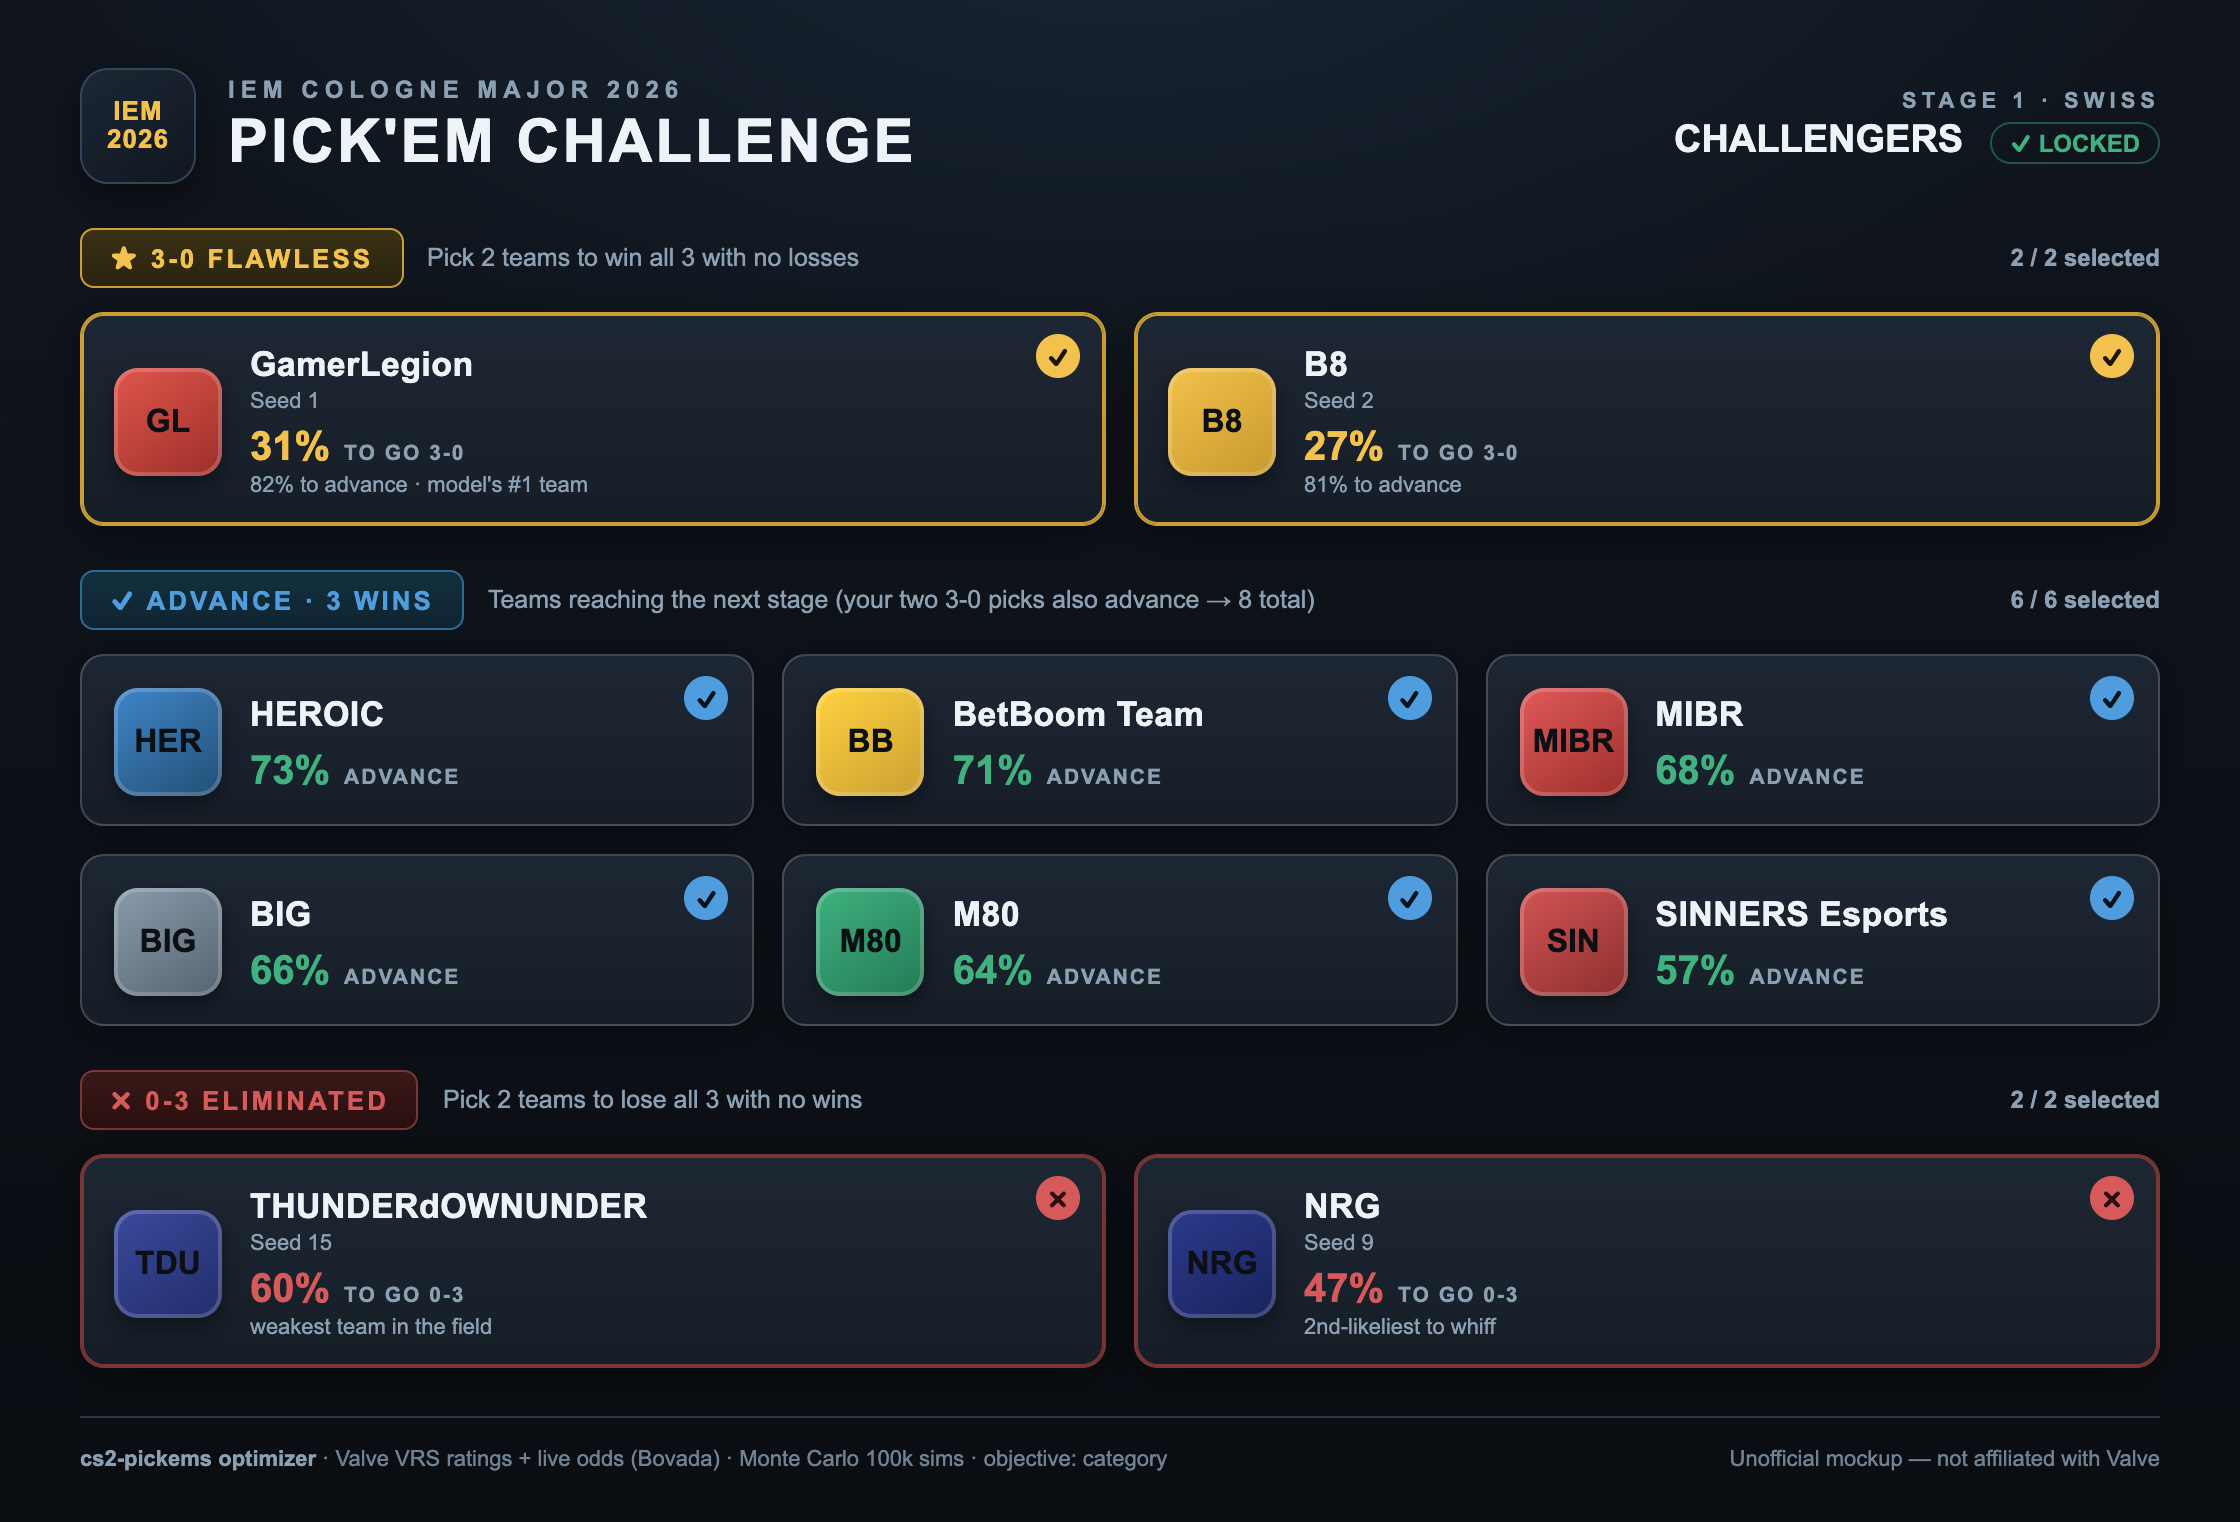
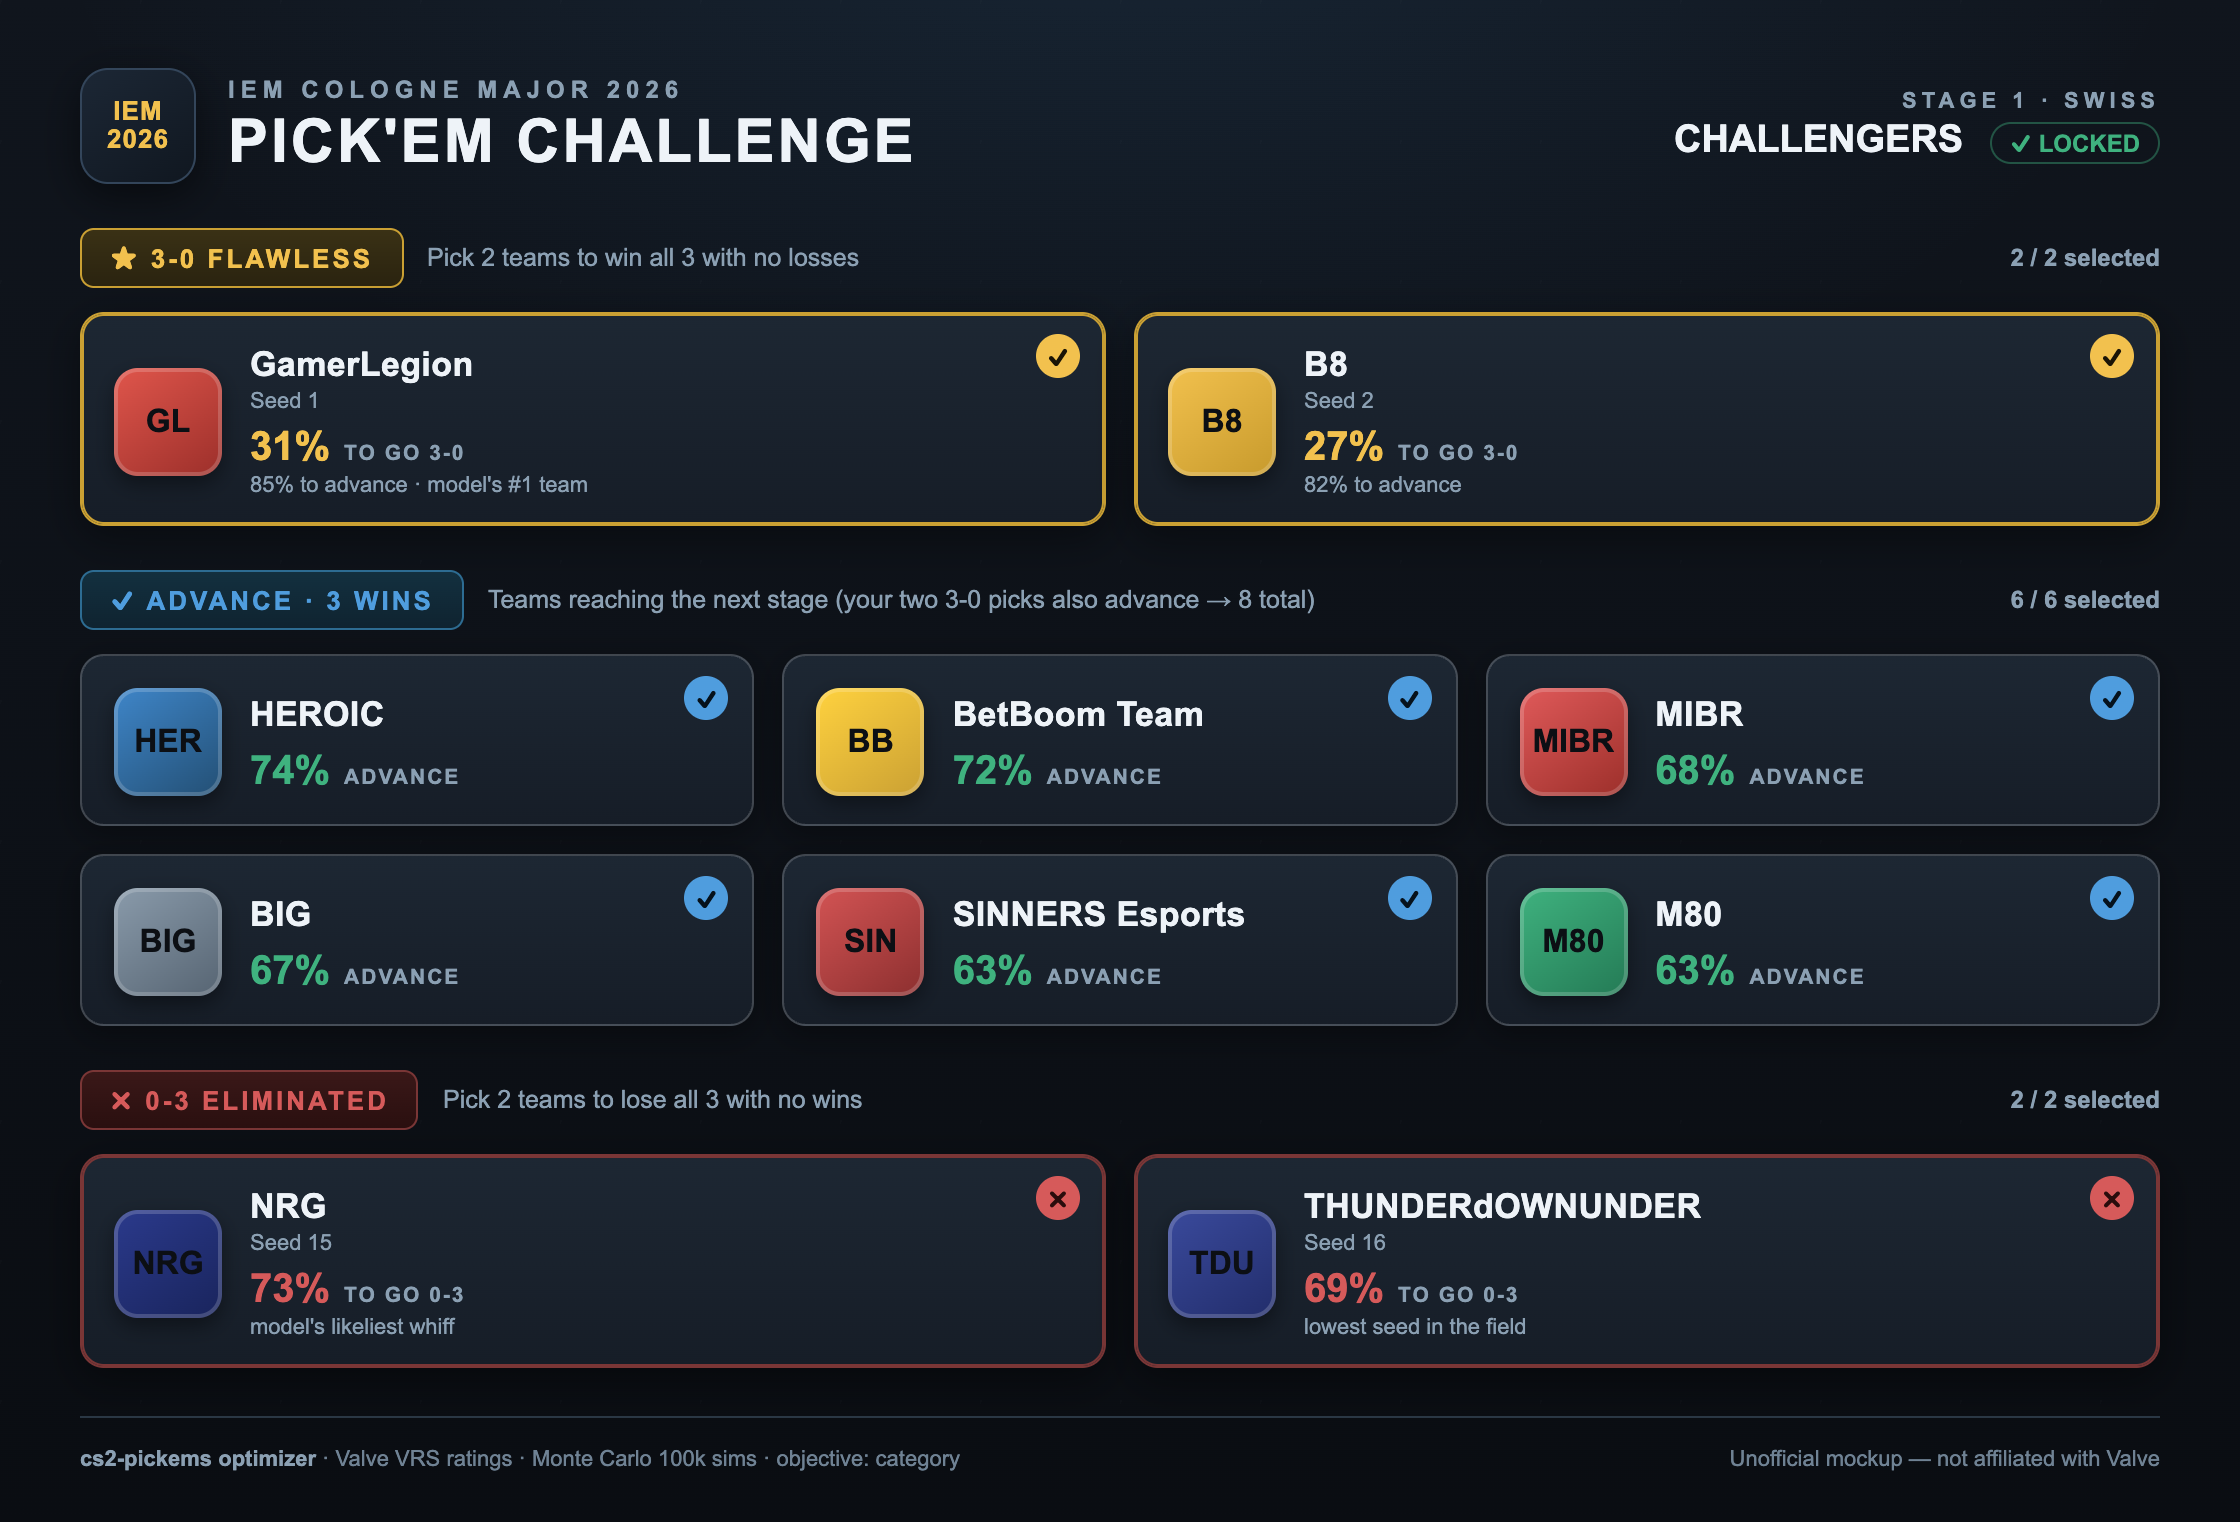
docs(mockup): add Stage 2 & 3 Pick'Em mockup screens + refresh Stage 1
Same in-client style as the existing Stage 1 / champion mockups, driven by
the new multi-stage simulation (Valve VRS, 100k sims/stage):

- docs/pickem_mockup.html: add #stage2 (Legends) and #stage3 (Champions, all
  Bo3) frames with a blue "PROJECTED" badge and a cascade-assumption note;
  refresh #stage1 numbers/seeds after the VRS re-seed (Valve-only footer).
- screenshots: new stage2/stage3 PNGs, regenerated stage1/champion (2240px @user).
- README: show all three Swiss stages, note stages 2/3 are cascaded projections.

diff --git a/docs/pickem_mockup.html b/docs/pickem_mockup.html
@@ -38,6 +38,8 @@
   .stage .v{ font-size:19px; font-weight:800; color:var(--text); margin-top:3px; }
   .lock{ display:inline-block; margin-left:8px; font-size:12px; color:var(--green);
          border:1px solid rgba(63,178,127,.4); border-radius:20px; padding:2px 9px; vertical-align:middle; }
+  .proj{ display:inline-block; margin-left:8px; font-size:12px; color:var(--blue);
+         border:1px solid rgba(79,157,222,.4); border-radius:20px; padding:2px 9px; vertical-align:middle; }
 
   .group{ margin-top:22px; position:relative; z-index:1; }
   .ghead{ display:flex; align-items:center; gap:12px; margin-bottom:12px; }
@@ -85,6 +87,11 @@
   .sub{ font-size:11px; color:var(--muted); margin-top:3px; }
 
   .note{ margin-top:10px; font-size:11.5px; color:var(--muted); }
+  .cascade{
+    margin-top:16px; font-size:12px; color:var(--muted); position:relative; z-index:1;
+    background:rgba(79,157,222,.06); border:1px dashed #2d6c92; border-radius:10px; padding:11px 15px;
+  }
+  .cascade b{ color:var(--blue); }
   .foot{
     margin-top:24px; padding-top:14px; border-top:1px solid var(--line);
     display:flex; justify-content:space-between; align-items:center; font-size:11px; color:#6f8294;
@@ -145,7 +152,7 @@
         <div class="meta">
           <div class="name">GamerLegion</div><div class="seed">Seed 1</div>
           <div class="stat"><span class="pct">31%</span><span class="plabel">to go 3-0</span></div>
-          <div class="sub">82% to advance · model's #1 team</div>
+          <div class="sub">85% to advance · model's #1 team</div>
         </div>
       </div>
       <div class="card g30 sel">
@@ -154,7 +161,7 @@
         <div class="meta">
           <div class="name">B8</div><div class="seed">Seed 2</div>
           <div class="stat"><span class="pct">27%</span><span class="plabel">to go 3-0</span></div>
-          <div class="sub">81% to advance</div>
+          <div class="sub">82% to advance</div>
         </div>
       </div>
     </div>
@@ -171,11 +178,11 @@
       <div class="card adv sel"><div class="tick">✓</div>
         <div class="logo" style="background:linear-gradient(145deg,#3f86c9,#234f74)">HER</div>
         <div class="meta"><div class="name">HEROIC</div>
-          <div class="stat"><span class="pct">73%</span><span class="plabel">advance</span></div></div></div>
+          <div class="stat"><span class="pct">74%</span><span class="plabel">advance</span></div></div></div>
       <div class="card adv sel"><div class="tick">✓</div>
         <div class="logo" style="background:linear-gradient(145deg,#ffd23f,#caa033)">BB</div>
         <div class="meta"><div class="name">BetBoom Team</div>
-          <div class="stat"><span class="pct">71%</span><span class="plabel">advance</span></div></div></div>
+          <div class="stat"><span class="pct">72%</span><span class="plabel">advance</span></div></div></div>
       <div class="card adv sel"><div class="tick">✓</div>
         <div class="logo" style="background:linear-gradient(145deg,#e05a5a,#9c2f2a)">MIBR</div>
         <div class="meta"><div class="name">MIBR</div>
@@ -183,15 +190,15 @@
       <div class="card adv sel"><div class="tick">✓</div>
         <div class="logo" style="background:linear-gradient(145deg,#8a9bab,#566472)">BIG</div>
         <div class="meta"><div class="name">BIG</div>
-          <div class="stat"><span class="pct">66%</span><span class="plabel">advance</span></div></div></div>
-      <div class="card adv sel"><div class="tick">✓</div>
-        <div class="logo" style="background:linear-gradient(145deg,#3fb27f,#247a55)">M80</div>
-        <div class="meta"><div class="name">M80</div>
-          <div class="stat"><span class="pct">64%</span><span class="plabel">advance</span></div></div></div>
+          <div class="stat"><span class="pct">67%</span><span class="plabel">advance</span></div></div></div>
       <div class="card adv sel"><div class="tick">✓</div>
         <div class="logo" style="background:linear-gradient(145deg,#d35454,#8c2f2f)">SIN</div>
         <div class="meta"><div class="name">SINNERS Esports</div>
-          <div class="stat"><span class="pct">57%</span><span class="plabel">advance</span></div></div></div>
+          <div class="stat"><span class="pct">63%</span><span class="plabel">advance</span></div></div></div>
+      <div class="card adv sel"><div class="tick">✓</div>
+        <div class="logo" style="background:linear-gradient(145deg,#3fb27f,#247a55)">M80</div>
+        <div class="meta"><div class="name">M80</div>
+          <div class="stat"><span class="pct">63%</span><span class="plabel">advance</span></div></div></div>
     </div>
   </div>
 
@@ -204,20 +211,245 @@
     </div>
     <div class="row two">
       <div class="card g03 sel"><div class="tick">✗</div>
-        <div class="logo" style="background:linear-gradient(145deg,#3a4a9c,#222d6b)">TDU</div>
-        <div class="meta"><div class="name">THUNDERdOWNUNDER</div><div class="seed">Seed 15</div>
-          <div class="stat"><span class="pct">60%</span><span class="plabel">to go 0-3</span></div>
-          <div class="sub">weakest team in the field</div></div></div>
-      <div class="card g03 sel"><div class="tick">✗</div>
         <div class="logo" style="background:linear-gradient(145deg,#2b3a8c,#19245c)">NRG</div>
-        <div class="meta"><div class="name">NRG</div><div class="seed">Seed 9</div>
-          <div class="stat"><span class="pct">47%</span><span class="plabel">to go 0-3</span></div>
-          <div class="sub">2nd-likeliest to whiff</div></div></div>
+        <div class="meta"><div class="name">NRG</div><div class="seed">Seed 15</div>
+          <div class="stat"><span class="pct">73%</span><span class="plabel">to go 0-3</span></div>
+          <div class="sub">model's likeliest whiff</div></div></div>
+      <div class="card g03 sel"><div class="tick">✗</div>
+        <div class="logo" style="background:linear-gradient(145deg,#3a4a9c,#222d6b)">TDU</div>
+        <div class="meta"><div class="name">THUNDERdOWNUNDER</div><div class="seed">Seed 16</div>
+          <div class="stat"><span class="pct">69%</span><span class="plabel">to go 0-3</span></div>
+          <div class="sub">lowest seed in the field</div></div></div>
     </div>
   </div>
 
   <div class="foot">
-    <span><b>cs2-pickems optimizer</b> · Valve VRS ratings + live odds (Bovada) · Monte Carlo 100k sims · objective: category</span>
+    <span><b>cs2-pickems optimizer</b> · Valve VRS ratings · Monte Carlo 100k sims · objective: category</span>
+    <span>Unofficial mockup — not affiliated with Valve</span>
+  </div>
+</div>
+
+<!-- ===================== STAGE 2 (LEGENDS) ===================== -->
+<div class="frame" id="stage2">
+  <div class="top">
+    <div class="brand">
+      <div class="emblem">IEM<br>2026</div>
+      <div>
+        <div class="evt">IEM COLOGNE MAJOR 2026</div>
+        <div class="title">PICK'EM CHALLENGE</div>
+      </div>
+    </div>
+    <div class="stage">
+      <div class="k">STAGE 2 · SWISS</div>
+      <div class="v">LEGENDS <span class="proj">⟳ PROJECTED</span></div>
+    </div>
+  </div>
+
+  <!-- 3-0 -->
+  <div class="group">
+    <div class="ghead">
+      <span class="badge b-30">★ 3-0 FLAWLESS</span>
+      <span class="desc">Pick 2 teams to win all 3 with no losses</span>
+      <span class="count">2 / 2 selected</span>
+    </div>
+    <div class="row two">
+      <div class="card g30 sel">
+        <div class="tick">✓</div>
+        <div class="logo" style="background:linear-gradient(145deg,#e07b39,#a8531f)">FUT</div>
+        <div class="meta">
+          <div class="name">FUT Esports</div><div class="seed">Seed 1</div>
+          <div class="stat"><span class="pct">30%</span><span class="plabel">to go 3-0</span></div>
+          <div class="sub">83% to advance · top Legends seed</div>
+        </div>
+      </div>
+      <div class="card g30 sel">
+        <div class="tick">✓</div>
+        <div class="logo" style="background:linear-gradient(145deg,#e8453c,#9c2a23)">AST</div>
+        <div class="meta">
+          <div class="name">Astralis</div><div class="seed">Seed 3</div>
+          <div class="stat"><span class="pct">30%</span><span class="plabel">to go 3-0</span></div>
+          <div class="sub">83% to advance</div>
+        </div>
+      </div>
+    </div>
+  </div>
+
+  <!-- ADVANCE -->
+  <div class="group">
+    <div class="ghead">
+      <span class="badge b-adv">✓ ADVANCE · 3 WINS</span>
+      <span class="desc">Teams reaching the next stage (your two 3-0 picks also advance → 8 total)</span>
+      <span class="count">6 / 6 selected</span>
+    </div>
+    <div class="row six">
+      <div class="card adv sel"><div class="tick">✓</div>
+        <div class="logo" style="background:linear-gradient(145deg,#f2c14e,#c79a2c)">SPR</div>
+        <div class="meta"><div class="name">Team Spirit</div>
+          <div class="stat"><span class="pct">83%</span><span class="plabel">advance</span></div></div></div>
+      <div class="card adv sel"><div class="tick">✓</div>
+        <div class="logo" style="background:linear-gradient(145deg,#c9ccd1,#8f949c)">G2</div>
+        <div class="meta"><div class="name">G2 Esports</div>
+          <div class="stat"><span class="pct">70%</span><span class="plabel">advance</span></div></div></div>
+      <div class="card adv sel"><div class="tick">✓</div>
+        <div class="logo" style="background:linear-gradient(145deg,#2ea36b,#1c6e47)">LGC</div>
+        <div class="meta"><div class="name">Legacy</div>
+          <div class="stat"><span class="pct">57%</span><span class="plabel">advance</span></div></div></div>
+      <div class="card adv sel"><div class="tick">✓</div>
+        <div class="logo" style="background:linear-gradient(145deg,#e0564c,#9c2f2a)">GL</div>
+        <div class="meta"><div class="name">GamerLegion</div>
+          <div class="stat"><span class="pct">53%</span><span class="plabel">advance</span></div></div></div>
+      <div class="card adv sel"><div class="tick">✓</div>
+        <div class="logo" style="background:linear-gradient(145deg,#6fa8dc,#3f6f99)">MON</div>
+        <div class="meta"><div class="name">Monte</div>
+          <div class="stat"><span class="pct">53%</span><span class="plabel">advance</span></div></div></div>
+      <div class="card adv sel"><div class="tick">✓</div>
+        <div class="logo" style="background:linear-gradient(145deg,#d2517a,#963655)">PN</div>
+        <div class="meta"><div class="name">paiN Gaming</div>
+          <div class="stat"><span class="pct">52%</span><span class="plabel">advance</span></div></div></div>
+    </div>
+  </div>
+
+  <!-- 0-3 -->
+  <div class="group">
+    <div class="ghead">
+      <span class="badge b-03">✗ 0-3 ELIMINATED</span>
+      <span class="desc">Pick 2 teams to lose all 3 with no wins</span>
+      <span class="count">2 / 2 selected</span>
+    </div>
+    <div class="row two">
+      <div class="card g03 sel"><div class="tick">✗</div>
+        <div class="logo" style="background:linear-gradient(145deg,#b07cc6,#7a4a90)">9Z</div>
+        <div class="meta"><div class="name">9z Team</div><div class="seed">Seed 8</div>
+          <div class="stat"><span class="pct">71%</span><span class="plabel">to go 0-3</span></div>
+          <div class="sub">weakest invite by VRS</div></div></div>
+      <div class="card g03 sel"><div class="tick">✗</div>
+        <div class="logo" style="background:linear-gradient(145deg,#d35454,#8c2f2f)">SIN</div>
+        <div class="meta"><div class="name">SINNERS Esports</div><div class="seed">Seed 15</div>
+          <div class="stat"><span class="pct">19%</span><span class="plabel">to go 0-3</span></div>
+          <div class="sub">lowest Stage-1 carry-over</div></div></div>
+    </div>
+  </div>
+
+  <div class="cascade">
+    <b>Projected field.</b> Stage 2 = the 8 Legends-stage invites + Stage 1's expected top 8
+    (GamerLegion, B8, HEROIC, BetBoom, MIBR, BIG, SINNERS, M80). Picks re-sharpen the moment
+    real Stage 1 results are entered.
+  </div>
+
+  <div class="foot">
+    <span><b>cs2-pickems optimizer</b> · Valve VRS ratings · Monte Carlo 100k sims · objective: category</span>
+    <span>Unofficial mockup — not affiliated with Valve</span>
+  </div>
+</div>
+
+<!-- ===================== STAGE 3 (CHAMPIONS) ===================== -->
+<div class="frame" id="stage3">
+  <div class="top">
+    <div class="brand">
+      <div class="emblem">IEM<br>2026</div>
+      <div>
+        <div class="evt">IEM COLOGNE MAJOR 2026</div>
+        <div class="title">PICK'EM CHALLENGE</div>
+      </div>
+    </div>
+    <div class="stage">
+      <div class="k">STAGE 3 · SWISS (ALL BO3)</div>
+      <div class="v">CHAMPIONS <span class="proj">⟳ PROJECTED</span></div>
+    </div>
+  </div>
+
+  <!-- 3-0 -->
+  <div class="group">
+    <div class="ghead">
+      <span class="badge b-30">★ 3-0 FLAWLESS</span>
+      <span class="desc">Pick 2 teams to win all 3 with no losses</span>
+      <span class="count">2 / 2 selected</span>
+    </div>
+    <div class="row two">
+      <div class="card g30 sel">
+        <div class="tick">✓</div>
+        <div class="logo" style="background:linear-gradient(145deg,#f4d03f,#c9a52c)">VIT</div>
+        <div class="meta">
+          <div class="name">Team Vitality</div><div class="seed">Seed 1</div>
+          <div class="stat"><span class="pct">76%</span><span class="plabel">to go 3-0</span></div>
+          <div class="sub">100% to advance · Valve VRS #1, runaway favourite</div>
+        </div>
+      </div>
+      <div class="card g30 sel">
+        <div class="tick">✓</div>
+        <div class="logo" style="background:linear-gradient(145deg,#2a2a2a,#050505);color:#fff">NAVI</div>
+        <div class="meta">
+          <div class="name">Natus Vincere</div><div class="seed">Seed 2</div>
+          <div class="stat"><span class="pct">33%</span><span class="plabel">to go 3-0</span></div>
+          <div class="sub">89% to advance</div>
+        </div>
+      </div>
+    </div>
+  </div>
+
+  <!-- ADVANCE -->
+  <div class="group">
+    <div class="ghead">
+      <span class="badge b-adv">✓ ADVANCE · 3 WINS</span>
+      <span class="desc">Top 8 reach the playoffs (your two 3-0 picks also advance → 8 total)</span>
+      <span class="count">6 / 6 selected</span>
+    </div>
+    <div class="row six">
+      <div class="card adv sel"><div class="tick">✓</div>
+        <div class="logo" style="background:linear-gradient(145deg,#2e9e4a,#1b6e2f)">FLC</div>
+        <div class="meta"><div class="name">Team Falcons</div>
+          <div class="stat"><span class="pct">78%</span><span class="plabel">advance</span></div></div></div>
+      <div class="card adv sel"><div class="tick">✓</div>
+        <div class="logo" style="background:linear-gradient(145deg,#c9a227,#8a6f15)">MGZ</div>
+        <div class="meta"><div class="name">The MongolZ</div>
+          <div class="stat"><span class="pct">71%</span><span class="plabel">advance</span></div></div></div>
+      <div class="card adv sel"><div class="tick">✓</div>
+        <div class="logo" style="background:linear-gradient(145deg,#f2c14e,#c79a2c)">SPR</div>
+        <div class="meta"><div class="name">Team Spirit</div>
+          <div class="stat"><span class="pct">68%</span><span class="plabel">advance</span></div></div></div>
+      <div class="card adv sel"><div class="tick">✓</div>
+        <div class="logo" style="background:linear-gradient(145deg,#e8453c,#9c2a23)">AST</div>
+        <div class="meta"><div class="name">Astralis</div>
+          <div class="stat"><span class="pct">65%</span><span class="plabel">advance</span></div></div></div>
+      <div class="card adv sel"><div class="tick">✓</div>
+        <div class="logo" style="background:linear-gradient(145deg,#e07b39,#a8531f)">FUT</div>
+        <div class="meta"><div class="name">FUT Esports</div>
+          <div class="stat"><span class="pct">63%</span><span class="plabel">advance</span></div></div></div>
+      <div class="card adv sel"><div class="tick">✓</div>
+        <div class="logo" style="background:linear-gradient(145deg,#4fb0a8,#2e706b)">PARI</div>
+        <div class="meta"><div class="name">PARIVISION</div>
+          <div class="stat"><span class="pct">59%</span><span class="plabel">advance</span></div></div></div>
+    </div>
+  </div>
+
+  <!-- 0-3 -->
+  <div class="group">
+    <div class="ghead">
+      <span class="badge b-03">✗ 0-3 ELIMINATED</span>
+      <span class="desc">Pick 2 teams to lose all 3 with no wins</span>
+      <span class="count">2 / 2 selected</span>
+    </div>
+    <div class="row two">
+      <div class="card g03 sel"><div class="tick">✗</div>
+        <div class="logo" style="background:linear-gradient(145deg,#d2517a,#963655)">PN</div>
+        <div class="meta"><div class="name">paiN Gaming</div><div class="seed">Seed 16</div>
+          <div class="stat"><span class="pct">50%</span><span class="plabel">to go 0-3</span></div>
+          <div class="sub">lowest seed in the Champions field</div></div></div>
+      <div class="card g03 sel"><div class="tick">✗</div>
+        <div class="logo" style="background:linear-gradient(145deg,#6fa8dc,#3f6f99)">MON</div>
+        <div class="meta"><div class="name">Monte</div><div class="seed">Seed 15</div>
+          <div class="stat"><span class="pct">46%</span><span class="plabel">to go 0-3</span></div>
+          <div class="sub">weakest Stage-2 carry-over</div></div></div>
+    </div>
+  </div>
+
+  <div class="cascade">
+    <b>Projected field.</b> Stage 3 = the 8 Champions-stage invites + Stage 2's expected top 8
+    (FUT, Astralis, Team Spirit, G2, Legacy, GamerLegion, Monte, paiN). Every match here is Bo3.
+  </div>
+
+  <div class="foot">
+    <span><b>cs2-pickems optimizer</b> · Valve VRS ratings · Monte Carlo 100k sims · objective: category</span>
     <span>Unofficial mockup — not affiliated with Valve</span>
   </div>
 </div>
@@ -251,9 +483,9 @@
       <h4>FIELD — CHAMPION PROBABILITY</h4>
       <div class="frow"><div class="logo" style="background:linear-gradient(145deg,#f4d03f,#c9a52c)">VIT</div>
         <div class="nm">Team Vitality</div><div class="bar"><div class="fill" style="width:100%"></div></div><div class="fp">59%</div></div>
-      <div class="frow"><div class="logo" style="background:linear-gradient(145deg,#1f1f1f,#000)">NAVI</div>
+      <div class="frow"><div class="logo" style="background:linear-gradient(145deg,#2a2a2a,#050505);color:#fff">NAVI</div>
         <div class="nm">Natus Vincere</div><div class="bar"><div class="fill" style="width:46%"></div></div><div class="fp">27%</div></div>
-      <div class="frow"><div class="logo" style="background:linear-gradient(145deg,#2e7d32,#1b4d1f)">FLC</div>
+      <div class="frow"><div class="logo" style="background:linear-gradient(145deg,#2e9e4a,#1b6e2f)">FLC</div>
         <div class="nm">Team Falcons</div><div class="bar"><div class="fill" style="width:17%"></div></div><div class="fp">10%</div></div>
       <div class="frow"><div class="logo" style="background:linear-gradient(145deg,#c9a227,#8a6f15)">MGZ</div>
         <div class="nm">The MongolZ</div><div class="bar"><div class="fill" style="width:6%"></div></div><div class="fp">3%</div></div>

diff --git a/README.md b/README.md
@@ -14,18 +14,29 @@ stage to the playoff bracket and the cosmetic picks, all delivered through a cle
 web app.
 
 ## The Picks
-**Stage 1** 
-IEM Cologne 2026 (Valve VRS ratings + live keyless odds, 100k Monte Carlo sims):
+All three Swiss stages are optimized (Valve VRS ratings, 100k Monte Carlo sims each).
+
+**Stage 1 · Challengers** — the locked 16-team field:
 
 ![Stage 1 Pick'Em recommendation — 2× 3-0, 6× advance, 2× 0-3](docs/screenshots/cs2-pickem-cologne-stage1.png)
+
+**Stage 2 · Legends** — the 8 Legends invites + Stage 1's projected top 8 (cascaded):
+
+![Stage 2 Pick'Em recommendation](docs/screenshots/cs2-pickem-cologne-stage2.png)
+
+**Stage 3 · Champions** — the 8 Champions invites + Stage 2's projected top 8 (all Bo3):
+
+![Stage 3 Pick'Em recommendation](docs/screenshots/cs2-pickem-cologne-stage3.png)
 
 And the playoff **champion** pick:
 
 ![Major champion pick](docs/screenshots/cs2-pickem-cologne-champion.png)
 
-> Generated mockups styled after the in-game screen (not affiliated with Valve).
-> Team seeds are provisional — re-run before the stage locks. Regenerate by opening
-> [`docs/pickem_mockup.html`](docs/pickem_mockup.html) in a browser and screenshotting.
+> Generated mockups styled after the in-game screen (not affiliated with Valve). Stages 2 & 3
+> are **projected** — their fields cascade from each earlier stage's expected top 8 and sharpen
+> as real results come in. Team seeds are provisional. Regenerate by opening
+> [`docs/pickem_mockup.html`](docs/pickem_mockup.html) in a browser and screenshotting each
+> `.frame` (`#stage1`/`#stage2`/`#stage3`/`#champion`).
 
 ## The live web app
 